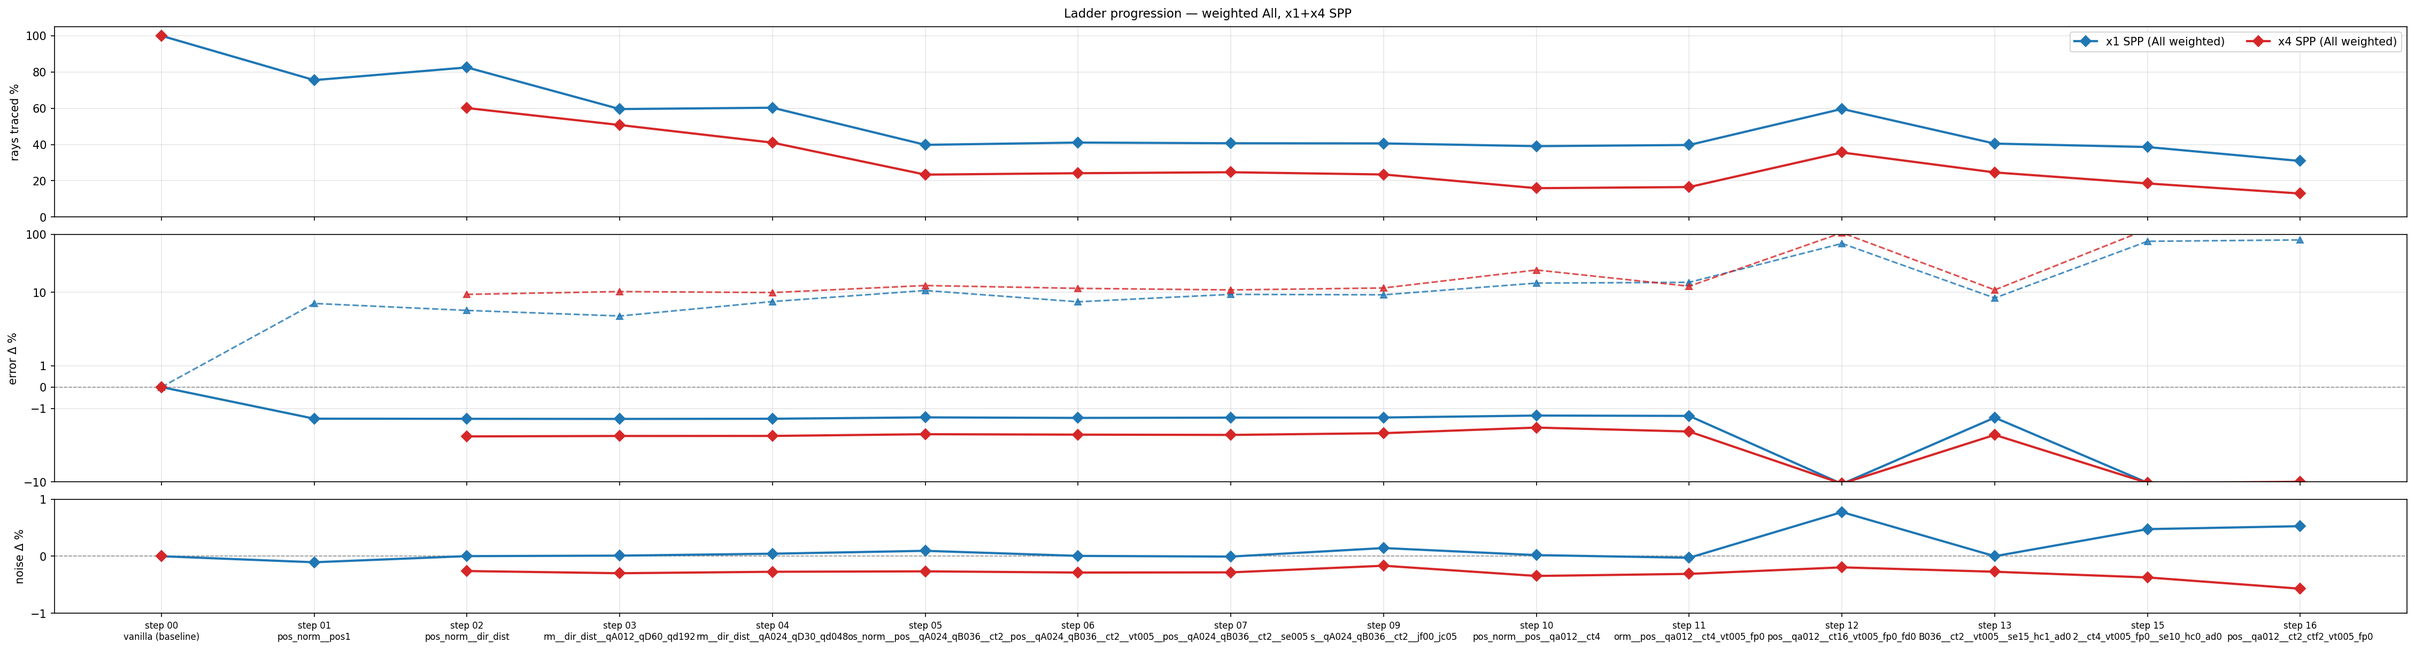
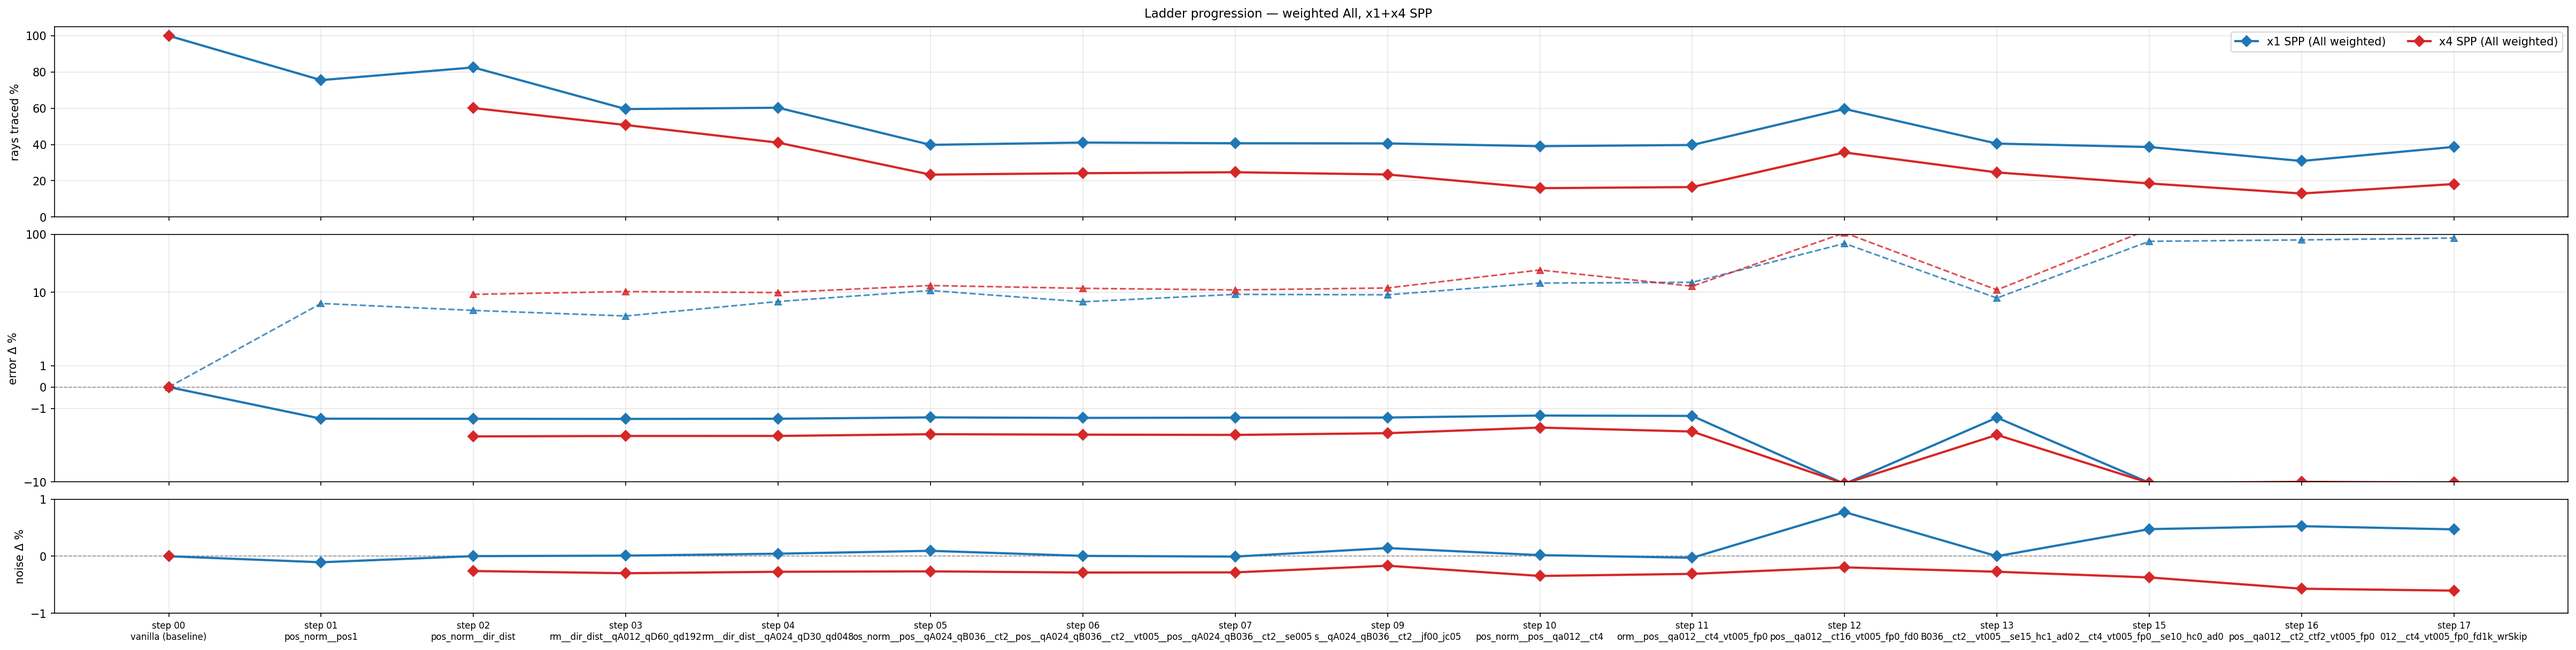
Step 17 insert-skip: negative result, parent-preinit disruption
Paper's win-win idea (skip coarse inserts at big footprints) triggers
parent-preinit chain disruption in my implementation: when skipping
a level I reset parentVis/parentTotal=0, so the next level's preinit
gets zero-seed instead of the inherited ratio.

Data: fd=4096 on 1AL blob 17→117 (catastrophic). 1PL mixed — fd=4096
helps (56→46) but fd=1024 hurts (56→86). Bistro gets 2.4pp rays
savings at fd=1024 (too small to carry).

Paper intuition still sound. Candidate fixes for future:
1. Fetch parent packed even when skipping the write, preserve chain.
2. Only skip the single coarsest level (not cascade-through), keep
   most preinit continuity.

Infrastructure kept (insert-skip guarded by existing forceDescendFootprintPx,
zero threshold = legacy). No carry change.

diff --git a/docs/devlog/DEVLOG.md b/docs/devlog/DEVLOG.md
@@ -32,6 +32,7 @@ Both row 1 col 3 : error Δ vs GT and row 1 col 9: noise Δ vs GT use the same c
 | 13   | stderr × hierarchical × accel-decay, single-level | **negative**: no variant strictly beats vt005; best-x4 se10+hc cuts 1PL x4 blob 17→10 but regresses x1 13→50 | no carry (keep step-06 vt005) |
 | 15   | stderr × hierarchical × accel-decay, multi-level + x16 | **negative** on Cornell; **big-scene supplement (Bistro/Sponza) shows viscache cuts mean GT-err 18–70% on Bistro** — first real-scene data, gate mechanisms near-irrelevant there | no carry (keep step-11 ct4_vt005_fp0) |
 | 16   | per-level ct (bootThreshold coarse, bootThresholdFine) | **negative**: asymmetric ct has non-monotonic mid-level regimes — (16,4) regresses 1AL 21→112; fine ct rarely consulted on dense Bistro so doesn't recover rays | no carry |
+| 17   | insert-side level-skip (paper win-win idea) | **negative**: fd>0 at insert skips big-cell writes AND disrupts parent-preinit chain → 1AL blob 17→117 at fd=4096; 1PL mixed (46 at fd=4096 vs 56 baseline); ~10% Bistro rays savings at fd=1024 | no carry |
 
 ---
 
@@ -498,6 +499,38 @@ Sweep 8 (coarse, fine) pairs on step-11 multi-level lineage: (2,2), (4,4), (8,4)
 **Why we narrow.** No carry — step-11 `qa012__ct4_vt005_fp0` remains the multi-level carry. Per-level ct infrastructure (new `bootThresholdFine` shader param) stays in place — might be useful as a future lever if paired with hierarchical consistency checking or insert-side level skipping. Details in `captures/ladder/16/picks.json`.
 
 ![](step16/overview_summary_16.png)
+
+---
+
+## Step 17 — insert-side level skipping (paper win-win idea) — negative result
+
+**What it looks at.** Paper's "skip coarse levels for big footprints" idea + step-12 spinoff. The existing `forceDescendFootprintPx` already makes lookup refuse to stop on convergence at big cells — step 17 extends it to the *insert* side: if `cellPx > forceDescendFootprintPx`, skip the write at that level too. Hypothesis: reduced coarse-level hash pressure + no fraudulent-low-variance cells at penumbras.
+
+Sweep: `fd ∈ {0, 1024, 4096}` (px² threshold). 3 × 2 SPP × 7 scenes = 42 runs.
+
+**Result — unintended consequence dominates.** x4 blob:
+
+| scene | fd=0 | fd=1024 | fd=4096 |
+|---|---:|---:|---:|
+| 32PL | 3.6 | 4.2 | 4.5 |
+| 1PL | 56 | **86** | **46** |
+| 1AL | 17 | 27 | **117** |
+| 3AL | 22.5 | 22.5 | 22.5 |
+| Bistro Interior | 294 (rays 26) | 294 (rays **24**) | 294 |
+| Bistro Exterior | 366 | 366 | 366 |
+| Sponza | 211 | 211 | 211 |
+
+**Key negative — parent-preinit chain disruption.** The existing insert pass seeds each cell's freshly-claimed slot with the parent level's `(vis, total) >> 3` via the parent-preinit mechanism (paper §5). My insert-skip resets `parentVis = parentTotal = 0` when skipping, breaking the chain for every subsequent level. 1AL at fd=4096 shows the catastrophic case (blob 17 → 117) — fine cells inherit a zero parent-seed instead of the inherited ratio.
+
+**Minor positive** — `fd=1024` on BistroInterior saves 2.4pp rays (26.3 → 23.9) with no quality change. Too small to be a carry; too big to ignore as noise.
+
+**Why we narrow.** No carry — step-11 `qa012__ct4_vt005_fp0` remains. The paper's win-win intuition is still sound, but the implementation has to preserve parent-preinit across skipped levels. Candidate fixes for future investigation:
+1. Pass the parent's vis/total through the skip (fetch coarse cell data without writing, use for next-level preinit).
+2. Independent gate: only skip once per cascade, at the coarsest level where cell is "too big" — preserve the majority of the cascade for preinit chain continuity.
+
+Details in `captures/ladder/17/picks.json`.
+
+![](step17/overview_summary_17.png)
 
 ---
 
